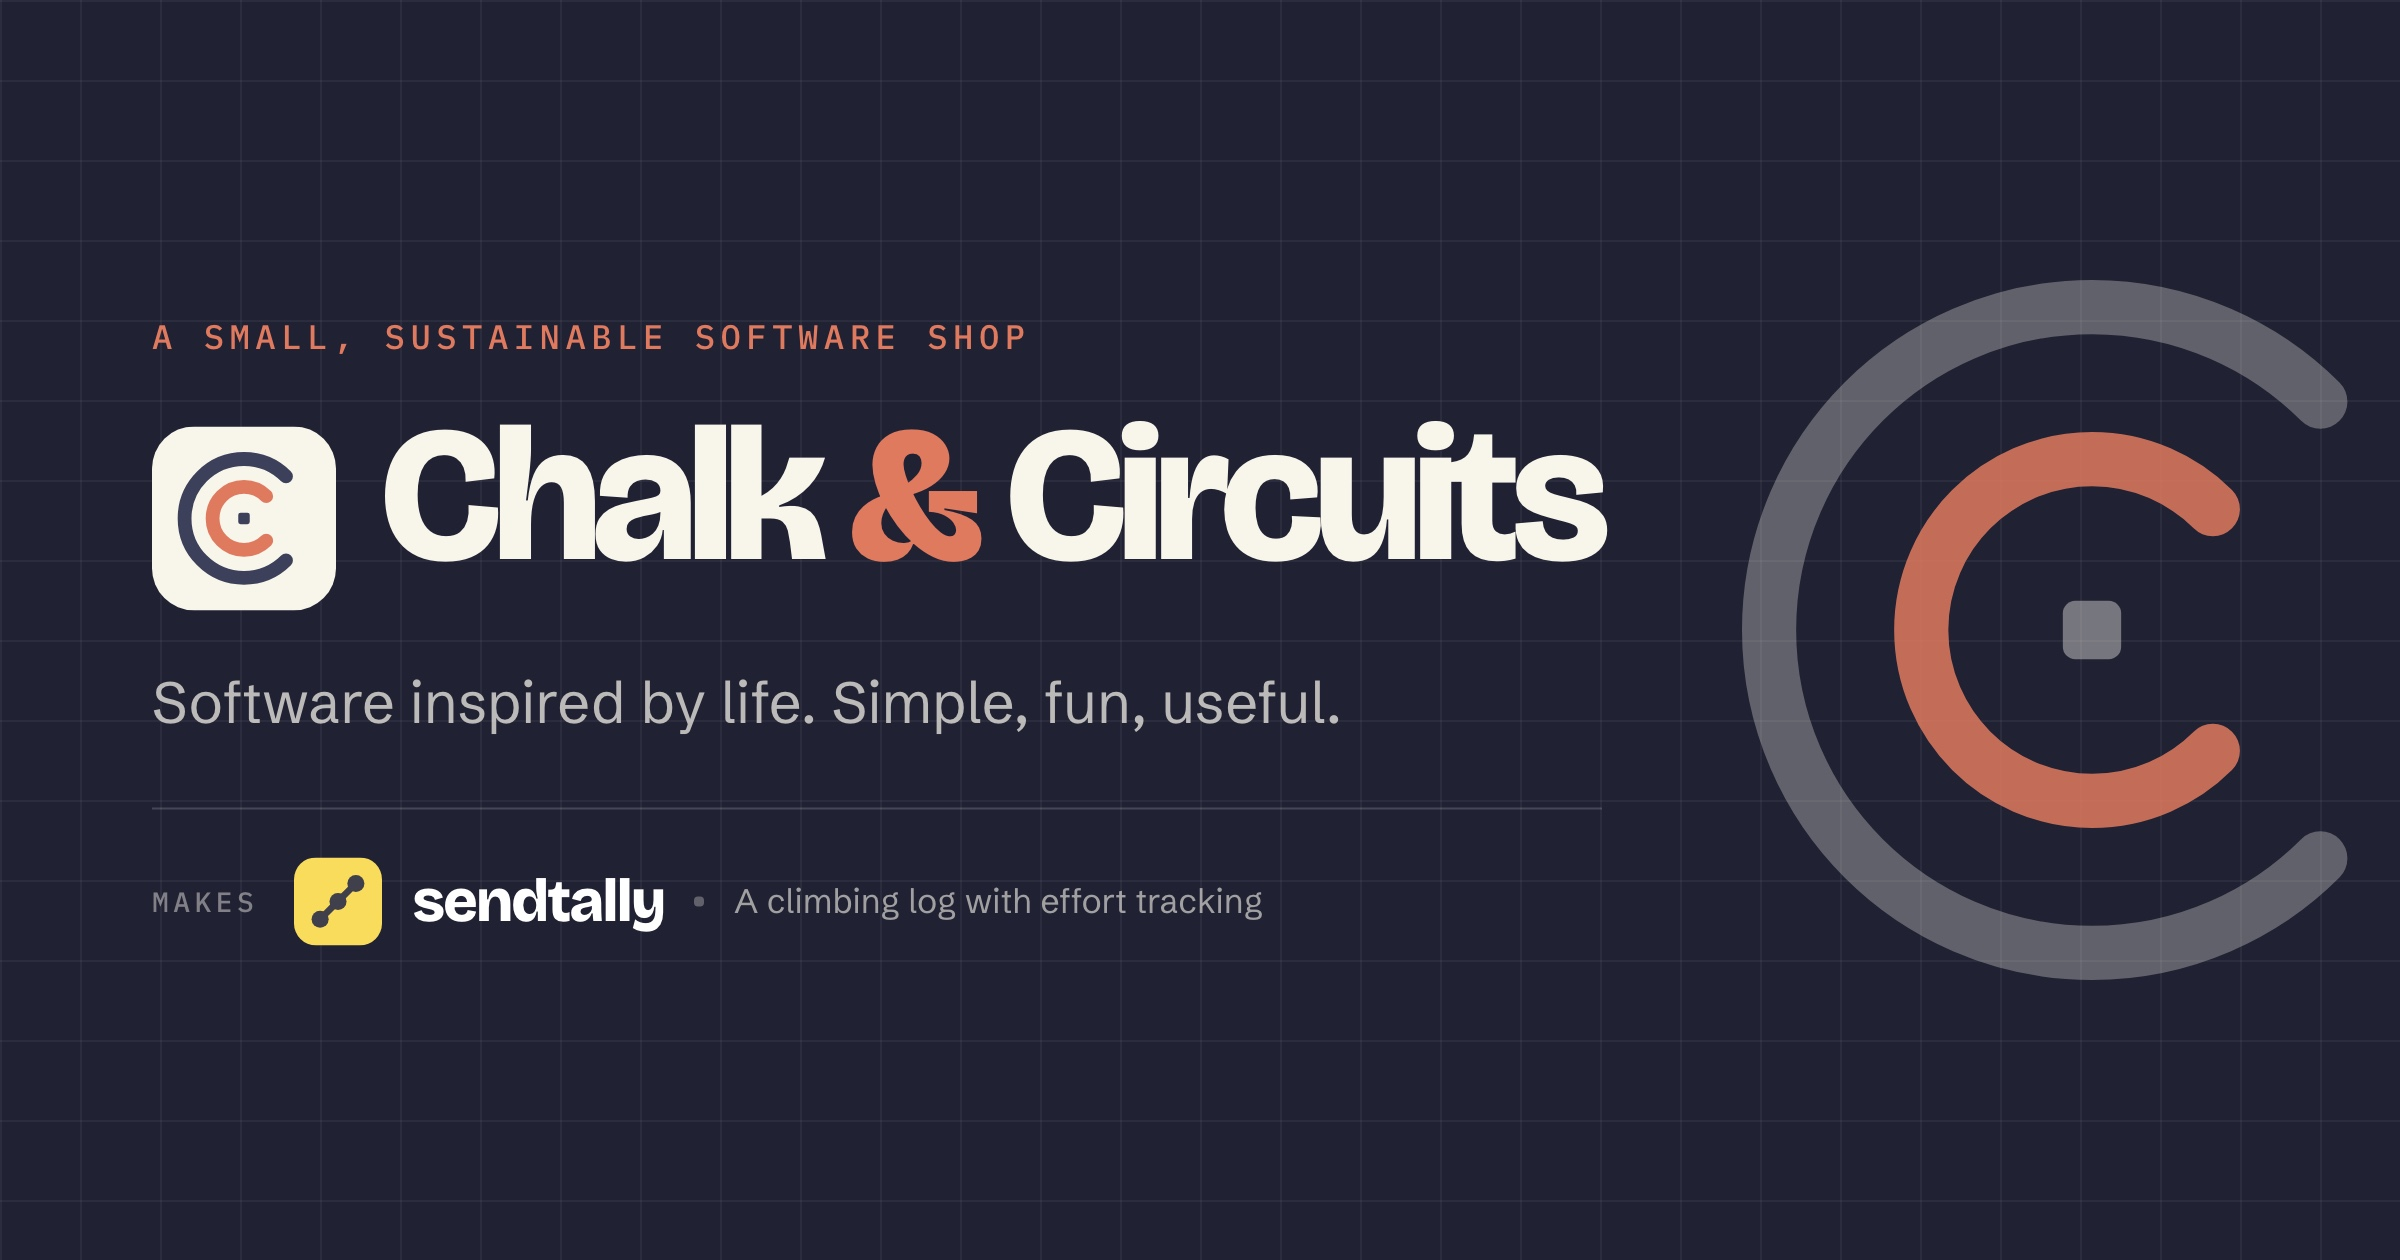
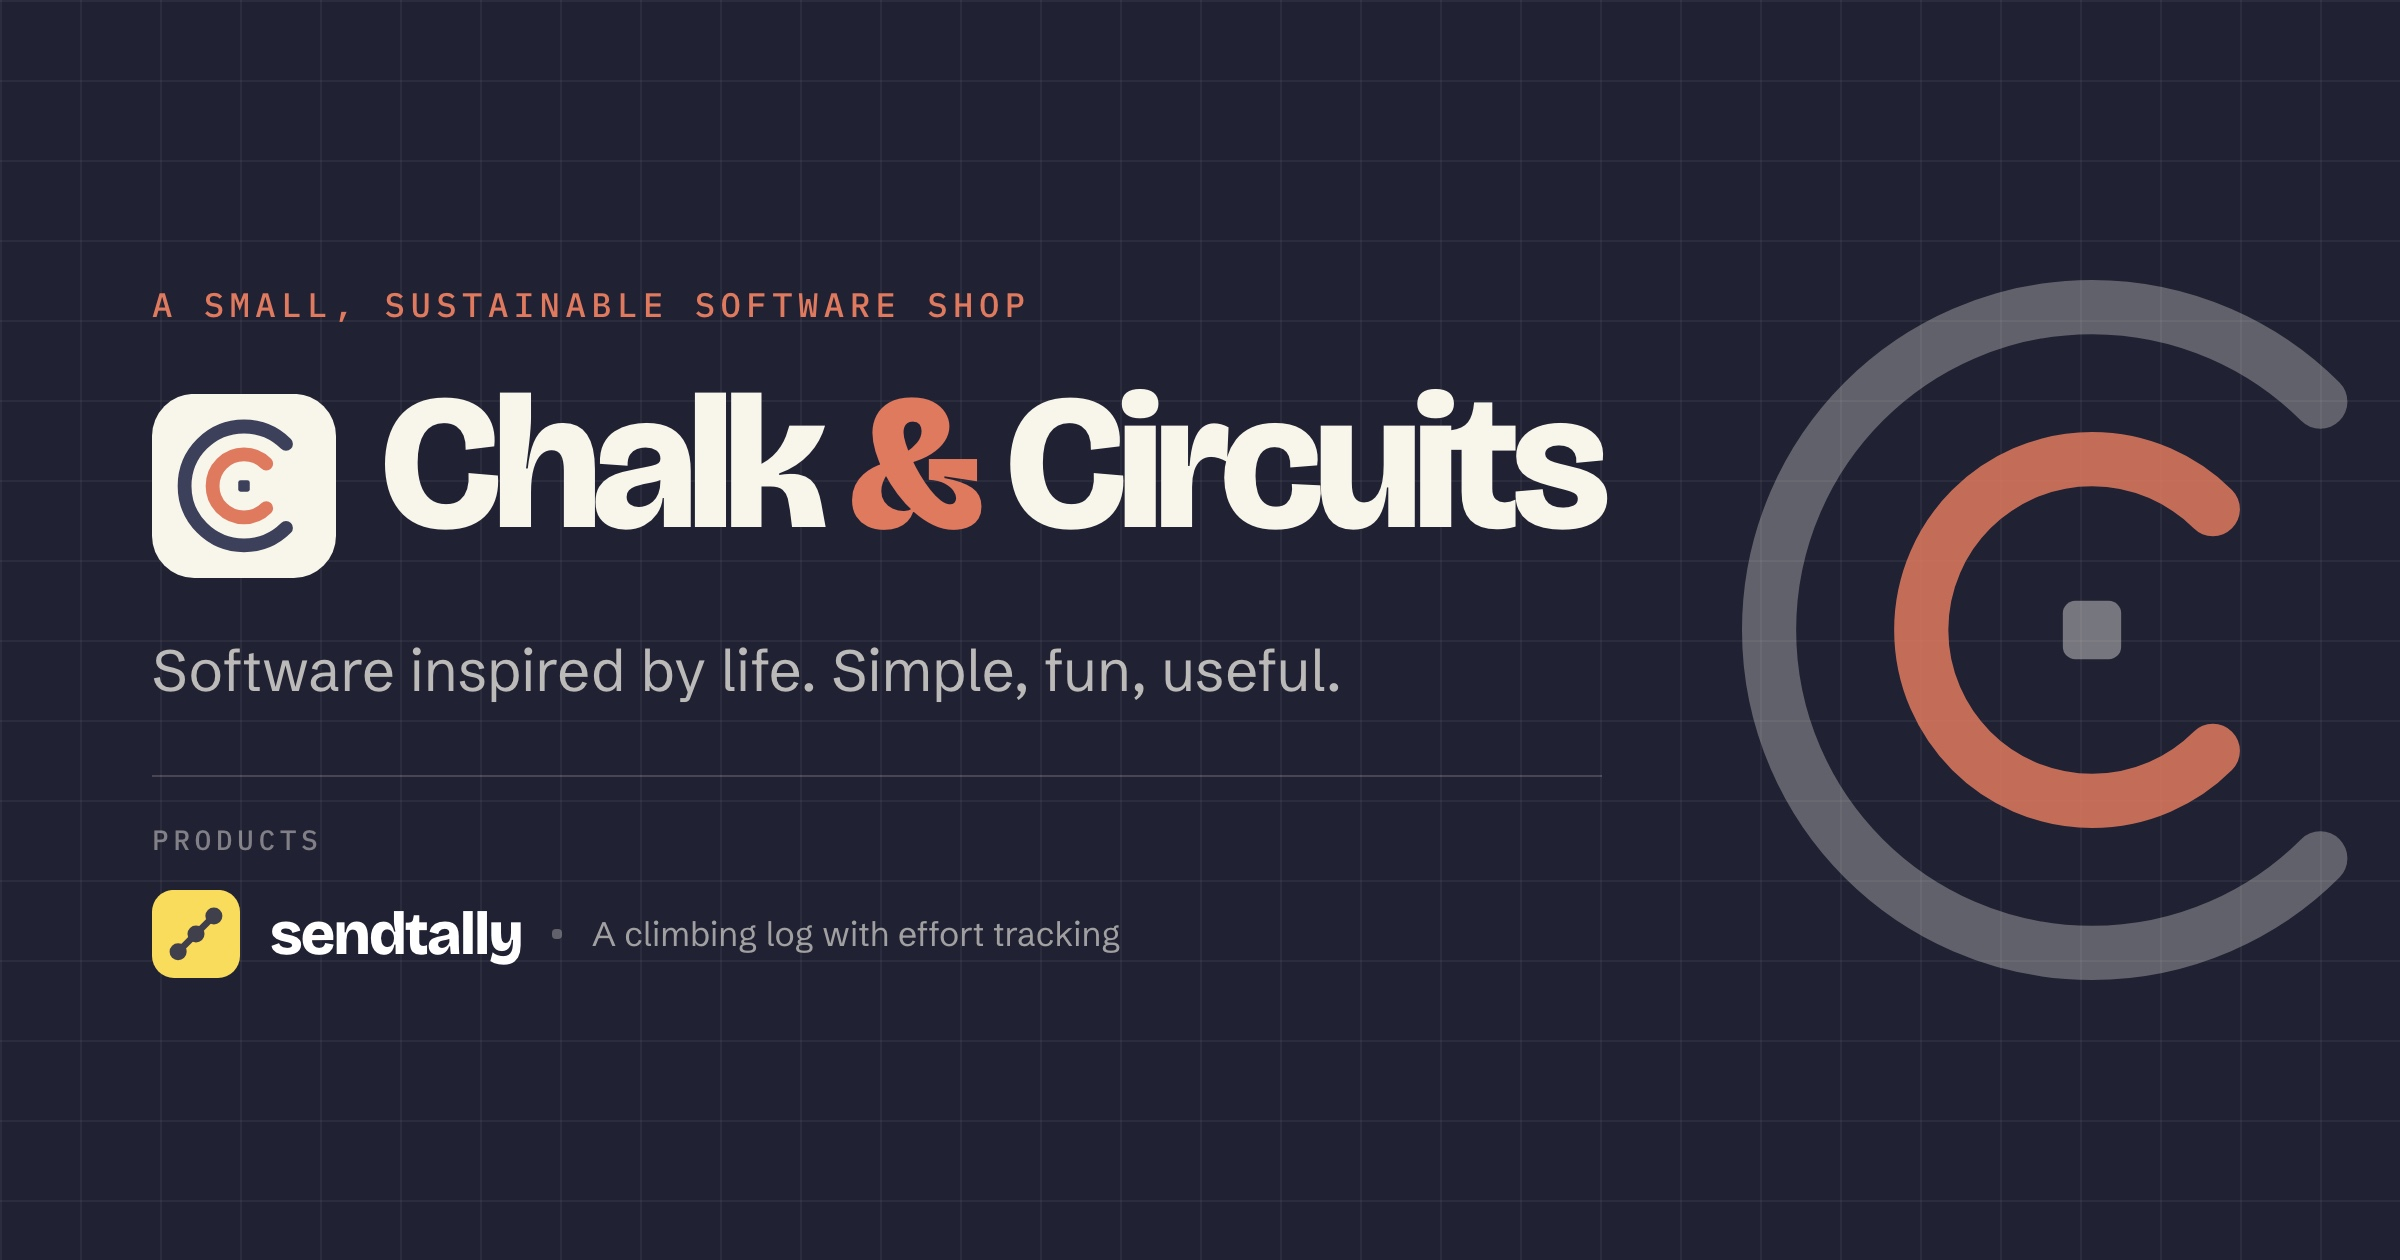
fix: label the preview card's product row
"Makes" sat to the left of the sendtally lockup, reading as a sentence
fragment. It becomes a "Products" heading above the row, which names what the
row is and leaves space for a second product to sit under it.

Claude-Session: https://claude.ai/code/session_01RQWHEwKimNyYqDoVufJgde

diff --git a/tools/og-image.html b/tools/og-image.html
@@ -37,10 +37,11 @@ h1{font-family:'Bricolage Grotesque',system-ui,sans-serif;font-size:96px;font-we
   line-height:.9;letter-spacing:-.045em;color:#F8F5EB}
 h1 .amp{color:#E07A5F}
 .lead{font-size:29px;line-height:1.4;color:rgba(248,245,235,.72);max-width:34ch}
-.sub{display:flex;align-items:center;gap:15px;margin-top:6px;
-  border-top:1px solid rgba(248,245,235,.18);padding-top:24px}
-.sub .label{font-family:'IBM Plex Mono',ui-monospace,monospace;font-size:14px;font-weight:500;
-  letter-spacing:.16em;text-transform:uppercase;color:rgba(248,245,235,.45);margin-right:3px}
+.products{margin-top:6px;border-top:1px solid rgba(248,245,235,.18);padding-top:22px}
+.products .label{display:block;margin-bottom:16px;
+  font-family:'IBM Plex Mono',ui-monospace,monospace;font-size:14px;font-weight:500;
+  letter-spacing:.16em;text-transform:uppercase;color:rgba(248,245,235,.45)}
+.sub{display:flex;align-items:center;gap:15px}
 .sub .name{font-family:'Bricolage Grotesque',system-ui,sans-serif;font-size:30px;font-weight:800;
   letter-spacing:-.035em;color:#fff}
 .sub .desc{font-size:17px;color:rgba(248,245,235,.6)}
@@ -69,12 +70,14 @@ h1 .amp{color:#E07A5F}
     <h1>Chalk <span class="amp">&amp;</span> Circuits</h1>
   </div>
   <p class="lead">Software inspired by life. Simple, fun, useful.</p>
-  <div class="sub">
-    <span class="label">Makes</span>
+  <div class="products">
+    <span class="label">Products</span>
+    <div class="sub">
     <svg viewBox="0 0 32 32" width="44" height="44" aria-label="sendtally"><rect width="32" height="32" rx="8" fill="#F9DC5C"></rect><path d="M9.5 22.5 16 16l6.5-6.5" fill="none" stroke="#403F4C" stroke-width="2.4" stroke-linecap="round" stroke-linejoin="round"></path><circle cx="9.5" cy="22.5" r="3.1" fill="#403F4C"></circle><circle cx="16" cy="16" r="3.1" fill="#403F4C"></circle><circle cx="22.5" cy="9.5" r="3.1" fill="#403F4C"></circle></svg>
     <span class="name">sendtally</span>
     <span class="dot"></span>
     <span class="desc">A climbing log with effort tracking</span>
+    </div>
   </div>
 </div>
 </body></html>

diff --git a/index.html b/index.html
@@ -20,7 +20,7 @@
 <meta property="og:image:type" content="image/jpeg">
 <meta property="og:image:width" content="2400">
 <meta property="og:image:height" content="1260">
-<meta property="og:image:alt" content="The Chalk &amp; Circuits wordmark above a row reading: makes sendtally, a climbing log with effort tracking.">
+<meta property="og:image:alt" content="The Chalk &amp; Circuits wordmark above a products row listing sendtally, a climbing log with effort tracking.">
 
 <meta name="twitter:card" content="summary_large_image">
 <meta name="twitter:title" content="Chalk &amp; Circuits - makers of sendtally">
